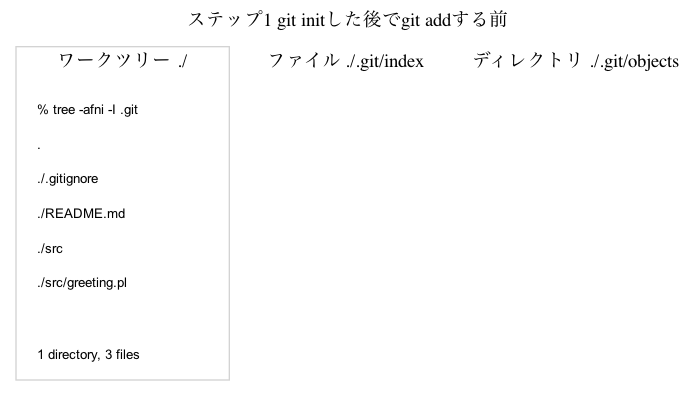
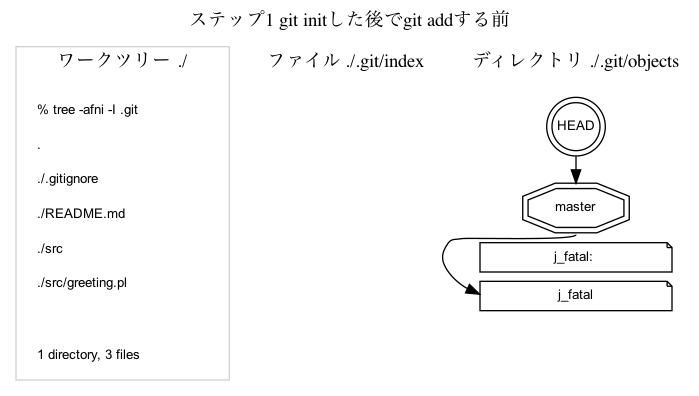
fixed a bug in visualize_git_repository.py: HEAD node comes to the top of the cluster_objects

diff --git a/kazurayam/gitviz/visualize_git_repository.py b/kazurayam/gitviz/visualize_git_repository.py
@@ -46,7 +46,23 @@ class GitRepositoryVisualizer:
             # check if the current working directory is `git init`ed or not.
             completed_process = SH.shell_command(wt, ['ls', '.git'])
             if completed_process.returncode == 0:
-                # yes, we find the '.git' directory
+                # yes, we find the '.git' directory. we can go down into the ".git/objects" directory
+
+                # generate the "HEAD" node
+                j.node("HEAD", "HEAD", shape="doublecircle", width="0.5", fixedsize="true")
+                # generate the branch node like "master"
+                branch_name = GIT.branch_show_current(wt).stdout
+                j.node(branch_name, branch_name, shape="doubleoctagon", width="0.3")
+                # link the HEAD and the branch
+                j.edge("HEAD", branch_name, constraint="false", minlen="3", arrowhead="normal")
+                # generate the top commit node
+                top_commit_hash = GIT.revparse(wt, branch_name).stdout
+                j.node('j_' + top_commit_hash[0:7])
+                # generate a edge from the branch node to the top commit node
+                j.edge(branch_name + ':s', 'j_' + top_commit_hash[0:7],
+                       constraint="false", minlen="3", arrowhead="normal")
+
+                # gegerate nodes of all objects
                 completed_process = GIT.catfile_batchcheck_batchallobjects(wt)
                 for line in completed_process.stdout.splitlines():
                     object_hash = line.split()[0]
@@ -66,7 +82,6 @@ class GitRepositoryVisualizer:
                         node_label = object_type + ' ' + hash7 + '\\n' + \
                                      find_filepath_of_blob(wt, object_hash)
                         j.node(node_id, node_label)
-
                 # draw edges between the commit/tree/blob objects
                 cp = GIT.branch_show_current(wt)
                 branch_name = cp.stdout   # "master", "develop" etc
@@ -111,7 +126,7 @@ class GitRepositoryVisualizer:
                             parent_commits = get_parent_commits(wt, commit_hash)
                             for parent in parent_commits:
                                 cm_dq.append(parent)
-                                g.edge('j_' + commit_hash[0:7], 'j_' + parent[0:7],
+                                j.edge('j_' + commit_hash[0:7], 'j_' + parent[0:7],
                                        constraint="false", arrowhead="none")
                             if len(parent_commits) >= 2:
                                 in_detail = False

diff --git a/kazurayam/gitviz/visualize_git_repository_test.py b/kazurayam/gitviz/visualize_git_repository_test.py
@@ -213,6 +213,7 @@ def test_4_index(basedir):
     GIT.commit(wt, 'initial commit', verbose=True)
     GRV().visualize_index(wt, sh_quotation, label='ステップ3 git commitしたらblobがツリーにつながった').render(
         os.path.join(gr, "figure-4.3"), format="png")
+
     # step4
     f = write_file(wt, "doc/TODO.txt", "Sleep well tonight.\n")
     sh_quotation = execute_tree_command(wt)

diff --git a/Qiita-4.worktree_index_blobs.md b/Qiita-4.worktree_index_blobs.md
@@ -2,7 +2,7 @@
 
 ## 解決すべき問題
 
-`git add`コマンドや`git commit`コマンドを実行したときGitレポジトリのなかで何がおきているのだろう？図で説明してほしい。
+`git add`コマンドや`git commit`コマンドを実行したときGitレポジトリのなかで何がおきているのだろう？Gitの内部のデータ構造（ワークツリーとインデックスとcommit/tree/blobオブジェクト）が変化するらしいが具体的に見たことがない。具体的な図で説明してほしい。
 
 ## 解決方法
 
